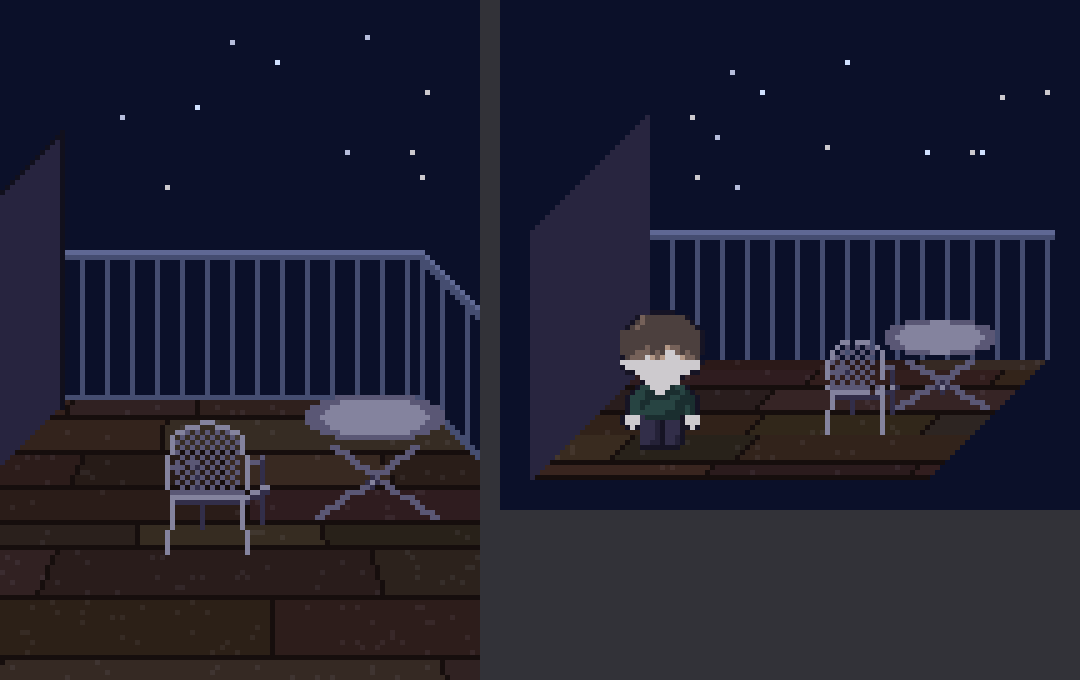
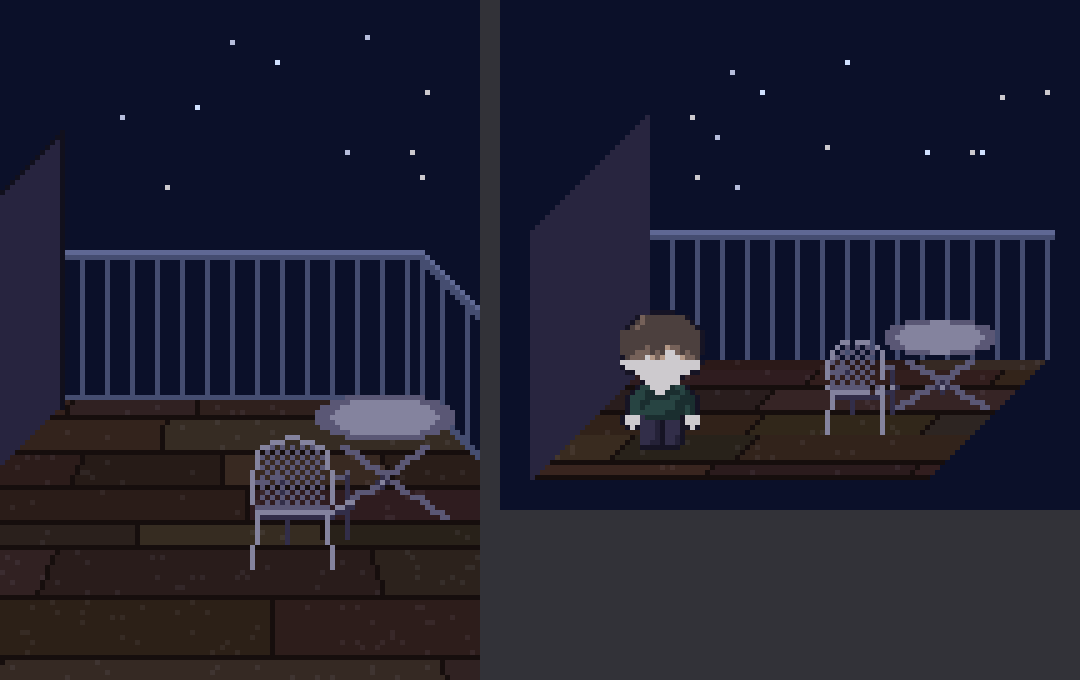
Balcony 2D: furniture layout matched to game-mode (oblique) view
Claude-Session: https://claude.ai/code/session_01FPZSaKiVNU2zED737yZX4w

Changed region(s): [[0.1528, 0.5868, 0.4278, 0.8338]]

diff --git a/tools/render_balcony2d.py b/tools/render_balcony2d.py
@@ -86,7 +86,7 @@ def main():
             for w in range(TW): seg((xx + w, top_y + d + ST), (xx + w, base_y + d - 1), MR)
     # 쇠 의자와 탁자: 땅 위
     t = lib['iron_table']; c = lib['iron_chair']
-    im.alpha_composite(t, (60, 104 - t.height)); im.alpha_composite(c, (30, 112 - c.height))
+    im.alpha_composite(t, (62, 104 - t.height)); im.alpha_composite(c, (47, 115 - c.height))
     # 밤의 색조
     for y in range(H):
         for x in range(W):
